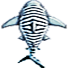
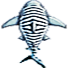
animated sprites

Changed region(s): [[0.2353, 0.7059, 0.6765, 1.0]]

diff --git a/Turtle Taskmasters.html b/Turtle Taskmasters.html
@@ -439,24 +439,33 @@
         const backgroundImage = new Image();
         backgroundImage.src = 'images/turtle-gamebg.png';
 
-        const sharkImage = new Image();
-        sharkImage.src = 'images/shark.png';
+        const sharkImage1 = new Image();
+        sharkImage1.src = 'images/shark.png';
+
+        const sharkImage2 = new Image();
+        sharkImage2.src = 'images/shark2.png';
 
         const coinImage = new Image();
         coinImage.src = 'images/gamecoin.png';
 
         // Load Turtle Images
-        const player1Image = new Image();
-        player1Image.src = 'images/p1-turtle.png';
+        const player1Image1 = new Image();
+        player1Image1.src = 'images/p1-turtle.png';
 
-        const player2Image = new Image();
-        player2Image.src = 'images/p2-turtle.png';
+        const player1Image2 = new Image();
+        player1Image2.src = 'images/p1-turtle2.png';
+
+        const player2Image1 = new Image();
+        player2Image1.src = 'images/p2-turtle.png';
+
+        const player2Image2 = new Image();
+        player2Image2.src = 'images/p2-turtle2.png';
 
         // Disable Start Button until all images are loaded
         startButton.disabled = true;
 
         let imagesLoaded = 0;
-        const totalImages = 5; // background, shark, coin, p1, p2
+        const totalImages = 8; // background, shark1, shark2, coin, p1-turtle, p1-turtle2, p2-turtle, p2-turtle2
 
         function imageLoadedHandler() {
             imagesLoaded++;
@@ -476,21 +485,30 @@
         backgroundImage.onload = imageLoadedHandler;
         backgroundImage.onerror = imageErrorHandler;
 
-        sharkImage.onload = imageLoadedHandler;
-        sharkImage.onerror = imageErrorHandler;
+        sharkImage1.onload = imageLoadedHandler;
+        sharkImage1.onerror = imageErrorHandler;
+
+        sharkImage2.onload = imageLoadedHandler;
+        sharkImage2.onerror = imageErrorHandler;
 
         coinImage.onload = imageLoadedHandler;
         coinImage.onerror = imageErrorHandler;
 
-        player1Image.onload = imageLoadedHandler;
-        player1Image.onerror = imageErrorHandler;
+        player1Image1.onload = imageLoadedHandler;
+        player1Image1.onerror = imageErrorHandler;
 
-        player2Image.onload = imageLoadedHandler;
-        player2Image.onerror = imageErrorHandler;
+        player1Image2.onload = imageLoadedHandler;
+        player1Image2.onerror = imageErrorHandler;
+
+        player2Image1.onload = imageLoadedHandler;
+        player2Image1.onerror = imageErrorHandler;
+
+        player2Image2.onload = imageLoadedHandler;
+        player2Image2.onerror = imageErrorHandler;
 
         // Turtle Class
         class Turtle {
-            constructor(x, y, controls, playerNumber, name, image) {
+            constructor(x, y, controls, playerNumber, name, image1, image2) {
                 this.x = x;
                 this.y = y;
                 this.size = 20; // Radius
@@ -503,11 +521,41 @@
                 this.visible = true;
                 this.playerNumber = playerNumber; // 1 or 2
                 this.name = name;
-                this.image = image; // Image object
+                this.image1 = image1; // First image
+                this.image2 = image2; // Second image
+                this.currentImageIndex = 0; // 0 or 1
+                this.swapCounter = 0;
+                this.swapInterval = 30; // Initial swap interval (frames)
             }
 
             draw() {
                 if (!this.visible) return;
+
+                // Calculate speed
+                const speed = Math.sqrt(this.vx * this.vx + this.vy * this.vy);
+                const maxSpeed = 5; // Define maximum speed for animation scaling
+                const minSwapInterval = 5; // Minimum frames between swaps
+                const maxSwapInterval = 30; // Maximum frames between swaps
+                const speedThreshold = 0.1; // Threshold to consider movement
+
+                if (speed > speedThreshold) {
+                    const clampedSpeed = Math.min(speed, maxSpeed);
+                    // Inversely proportional swap interval: faster speed => shorter interval
+                    this.swapInterval = maxSwapInterval - (clampedSpeed / maxSpeed) * (maxSwapInterval - minSwapInterval);
+
+                    this.swapCounter++;
+
+                    if (this.swapCounter >= this.swapInterval) {
+                        this.currentImageIndex = (this.currentImageIndex + 1) % 2;
+                        this.swapCounter = 0;
+                    }
+                } else {
+                    // If not moving, reset to first image
+                    this.currentImageIndex = 0;
+                    this.swapCounter = 0;
+                }
+
+                const currentImage = this.currentImageIndex === 0 ? this.image1 : this.image2;
 
                 ctx.save(); // Save the current canvas state
                 ctx.translate(this.x, this.y); // Translate to the turtle's position
@@ -520,8 +568,8 @@
 
                 ctx.rotate(angle); // Rotate the canvas
 
-                // Draw the image, centered
-                ctx.drawImage(this.image, -this.size, -this.size, this.size * 2, this.size * 2);
+                // Draw the current image, centered
+                ctx.drawImage(currentImage, -this.size, -this.size, this.size * 2, this.size * 2);
 
                 ctx.restore(); // Restore the canvas state
             }
@@ -648,17 +696,45 @@
         }
 
         class TigerShark {
-            constructor(x, y, speed = 1) {
+            constructor(x, y, speed = 1, image1, image2) {
                 this.x = x;
                 this.y = y;
                 this.size = 17; // Reduced size by 15% (from 20 to 17)
                 this.speed = speed;
                 this.direction = Math.random() * Math.PI * 2; // Random movement direction
-                this.image = sharkImage;
+                this.image1 = image1; // First image
+                this.image2 = image2; // Second image
+                this.currentImageIndex = 0; // 0 or 1
+                this.swapCounter = 0;
+                this.swapInterval = 30; // Initial swap interval (frames)
             }
 
             draw() {
-                if (!this.image.complete) return; // Ensure image is loaded
+                // Calculate speed
+                const speed = this.speed;
+                const maxSpeed = 5; // Define maximum speed for animation scaling
+                const minSwapInterval = 5; // Minimum frames between swaps
+                const maxSwapInterval = 30; // Maximum frames between swaps
+                const speedThreshold = 0.1; // Threshold to consider movement
+
+                if (speed > speedThreshold) {
+                    const clampedSpeed = Math.min(speed, maxSpeed);
+                    // Inversely proportional swap interval: faster speed => shorter interval
+                    this.swapInterval = maxSwapInterval - (clampedSpeed / maxSpeed) * (maxSwapInterval - minSwapInterval);
+
+                    this.swapCounter++;
+
+                    if (this.swapCounter >= this.swapInterval) {
+                        this.currentImageIndex = (this.currentImageIndex + 1) % 2;
+                        this.swapCounter = 0;
+                    }
+                } else {
+                    // If not moving, reset to first image
+                    this.currentImageIndex = 0;
+                    this.swapCounter = 0;
+                }
+
+                const currentImage = this.currentImageIndex === 0 ? this.image1 : this.image2;
 
                 ctx.save(); // Save the current canvas state
                 ctx.translate(this.x, this.y); // Translate to the shark's position
@@ -668,8 +744,8 @@
 
                 ctx.rotate(angle);
 
-                // Draw the shark image, centered
-                ctx.drawImage(this.image, -this.size, -this.size, this.size * 2, this.size * 2);
+                // Draw the current image, centered
+                ctx.drawImage(currentImage, -this.size, -this.size, this.size * 2, this.size * 2);
 
                 ctx.restore(); // Restore the canvas state
             }
@@ -756,7 +832,8 @@
                 controlsPlayer1,
                 1,
                 player1Name,
-                player1Image
+                player1Image1, // First image
+                player1Image2  // Second image
             );
             player2 = new Turtle(
                 canvas.width * 0.75,
@@ -764,7 +841,8 @@
                 controlsPlayer2,
                 2,
                 player2Name,
-                player2Image
+                player2Image1, // First image
+                player2Image2  // Second image
             );
 
             coins = [];
@@ -811,7 +889,7 @@
                     case 'shark':
                         // Sharks have random speeds based on level
                         const speed = 1 + currentLevel * 0.2;
-                        newEntity = new TigerShark(x, y, speed);
+                        newEntity = new TigerShark(x, y, speed, sharkImage1, sharkImage2);
                         break;
                 }
 
